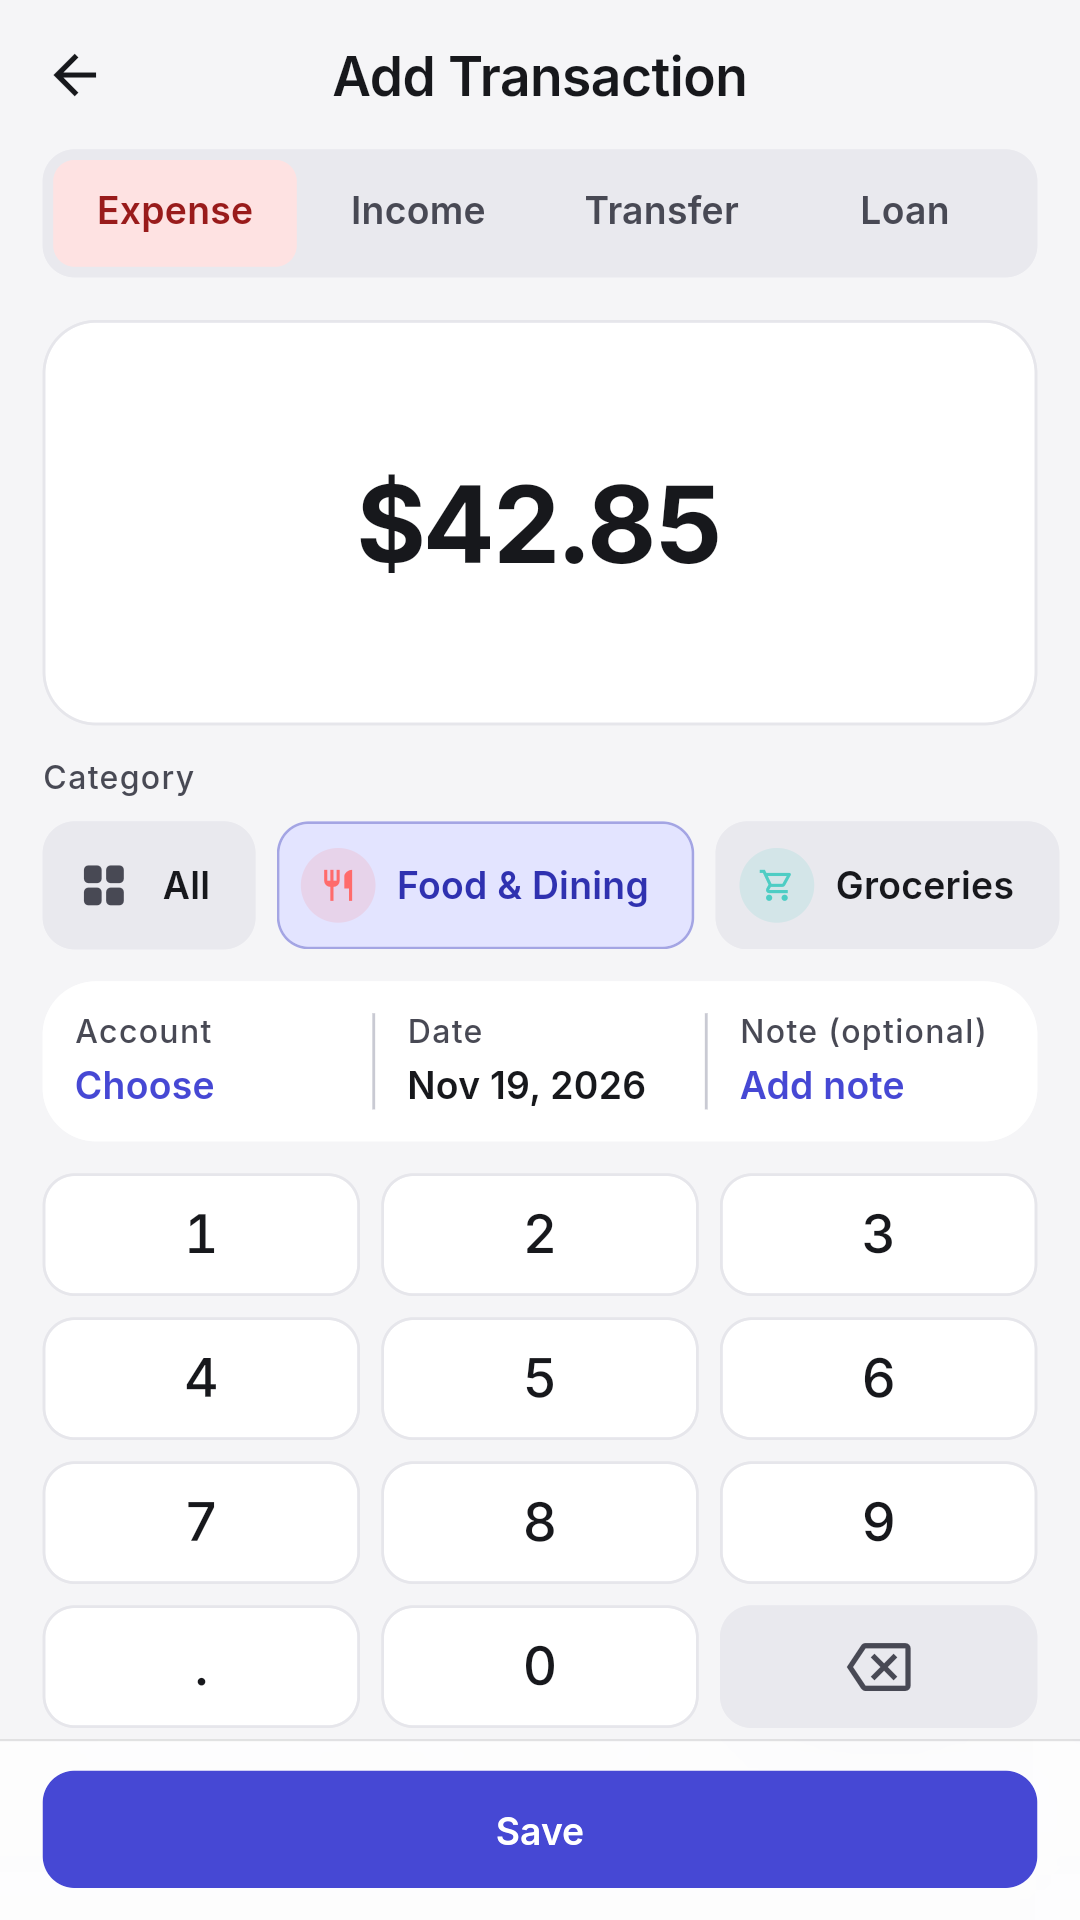
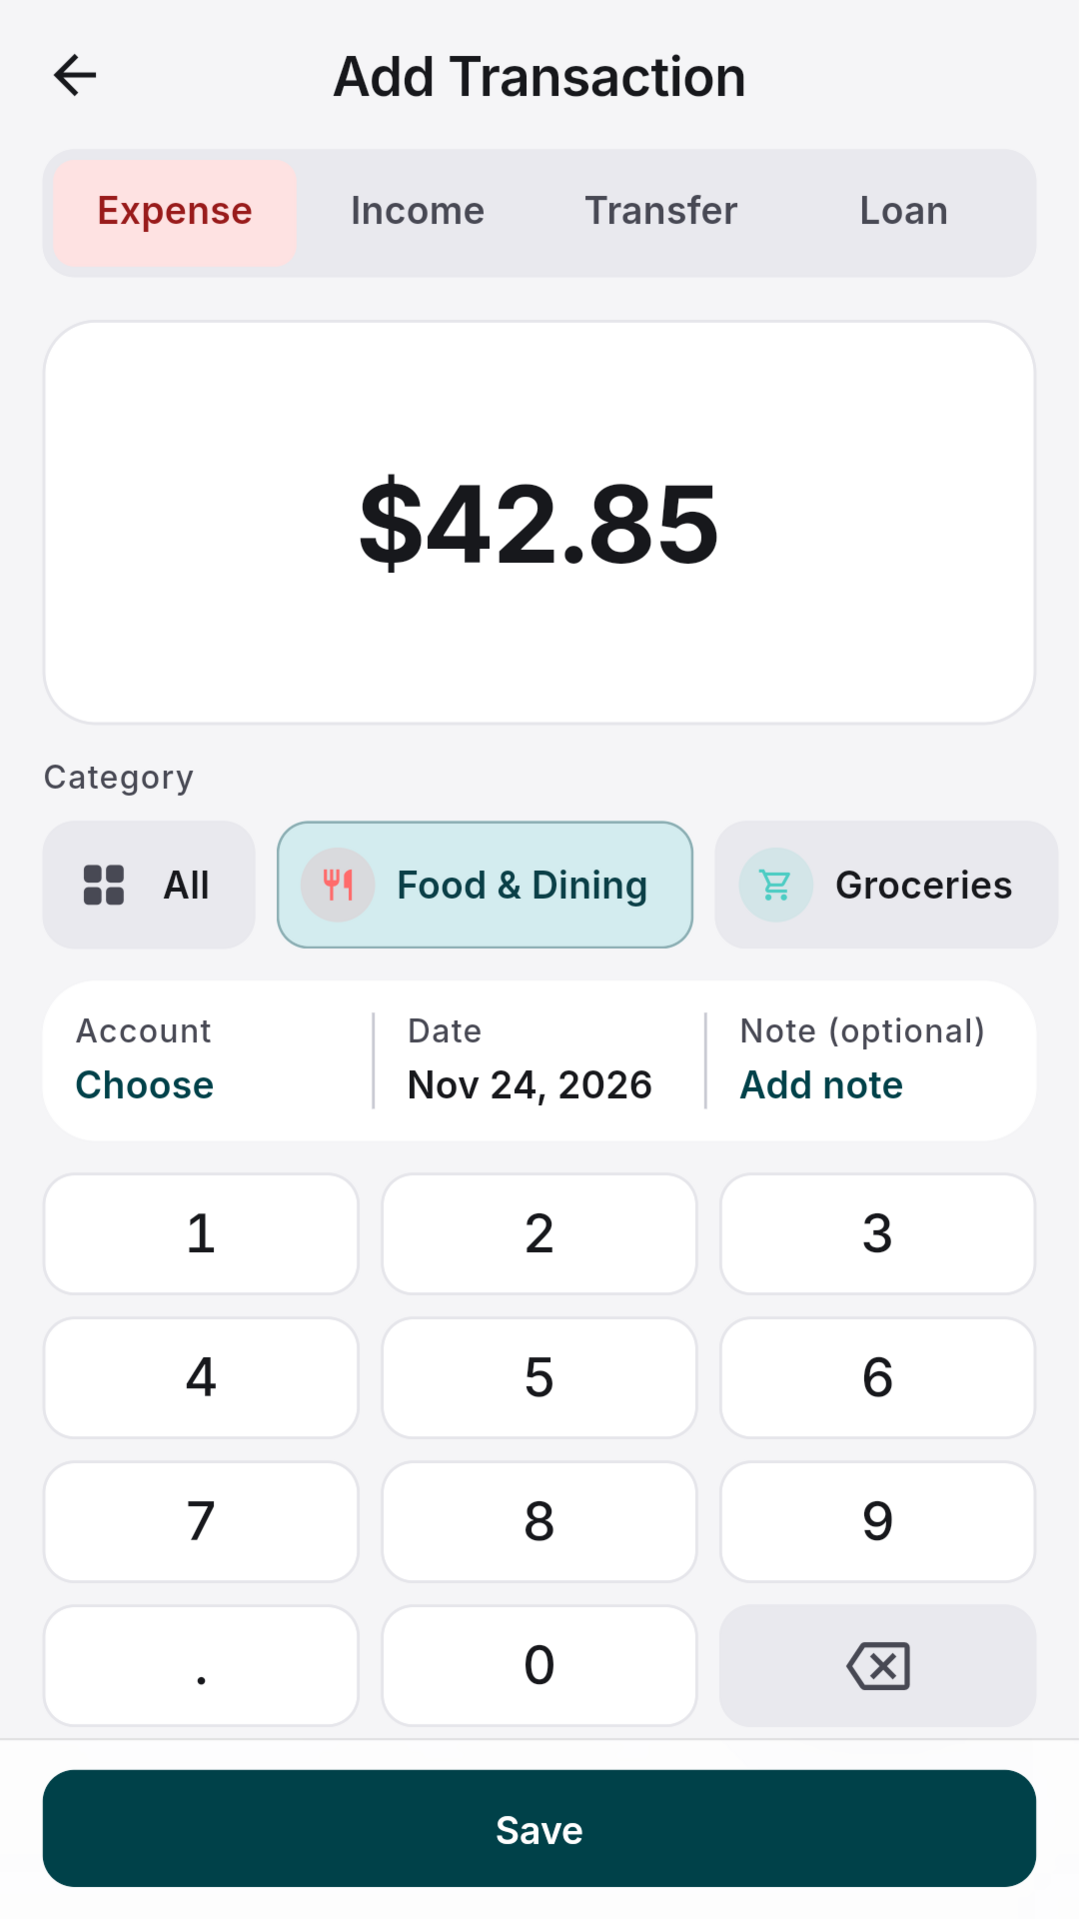
Change the brand colour from indigo to deep teal
The seed colour is now #0E5A64, with matching selection and transfer
tints. The Home summary card is one flat colour: the gradient and its
soft highlights are gone. Teal leads the chart colours and indigo moves
to the last slot. The launcher icon, notification tint, Play Store icon,
feature graphic and screenshots follow. Green, red and amber keep their
meanings.

diff --git a/lib/core/theme/app_palette.dart b/lib/core/theme/app_palette.dart
@@ -33,7 +33,7 @@ class AppPalette extends ThemeExtension<AppPalette> {
     required this.glassBarTint,
     required this.glassSheetTint,
     required this.glassBorder,
-    required this.heroGradient,
+    required this.hero,
     required this.heroGlow,
     required this.heroShade,
     required this.onHero,
@@ -92,24 +92,22 @@ class AppPalette extends ThemeExtension<AppPalette> {
   final Color glassBorder;
 
   /// The Home hero card: the one place the brand color fills a surface.
-  /// A diagonal gradient (top left to bottom right) with a soft highlight.
-  /// [onHero] and [onHeroMuted] meet AA (4.5:1) on every part of it,
-  /// highlight included. The same in light and dark mode.
-  final List<Color> heroGradient;
+  /// One flat color. [onHero] and [onHeroMuted] meet AA (4.5:1) on it,
+  /// with [heroGlow] over it too. The same in light and dark mode.
+  final Color hero;
 
-  /// Decoration on the hero: [heroGlow] lightens (the contrast figures
-  /// allow for one layer of it, so glows must not overlap); [heroShade]
-  /// darkens, which only helps contrast.
+  /// The month chip on the hero: [heroShade] darkens its fill, which only
+  /// helps contrast; [heroGlow] is its hairline.
   final Color heroGlow;
   final Color heroShade;
   final Color onHero;
   final Color onHeroMuted;
   final Color heroShadow;
 
-  static const _heroGradient = [Color(0xFF474AD8), Color(0xFF2E2B9C)];
+  static const _hero = Color(0xFF0D4F58);
   static const _heroGlow = Color(0x14FFFFFF);
   static const _onHero = Color(0xFFFFFFFF);
-  static const _onHeroMuted = Color(0xFFECEDFF);
+  static const _onHeroMuted = Color(0xFFE6F2F3);
   static const _heroShade = Color(0x14000000);
 
   static AppPalette light(ColorScheme scheme) => AppPalette(
@@ -120,8 +118,8 @@ class AppPalette extends ThemeExtension<AppPalette> {
         expenseContainer: const Color(0xFFFEE2E2),
         onExpenseContainer: const Color(0xFF991B1B),
         transfer: scheme.primary,
-        transferContainer: const Color(0xFFE0E7FF),
-        onTransferContainer: const Color(0xFF3730A3),
+        transferContainer: const Color(0xFFD3ECEF),
+        onTransferContainer: const Color(0xFF0A3F47),
         loan: const Color(0xFF6D28D9),
         loanContainer: const Color(0xFFEDE9FE),
         onLoanContainer: const Color(0xFF5B21B6),
@@ -129,14 +127,14 @@ class AppPalette extends ThemeExtension<AppPalette> {
         budgetWarning: const Color(0xFFA14A07),
         budgetDanger: const Color(0xFFB91C1C),
         chart: const [
-          Color(0xFF4F46E5), // indigo
-          Color(0xFF0F766E), // teal
+          Color(0xFF0E6E7A), // brand teal
           Color(0xFFB45309), // amber
           Color(0xFFE11D48), // rose
           Color(0xFF0284C7), // sky
           Color(0xFF7C3AED), // violet
           Color(0xFF4D7C0F), // lime
           Color(0xFFC026D3), // fuchsia
+          Color(0xFF4F46E5), // indigo
         ],
         chartOther: const Color(0xFF64748B),
         raisedSurface: scheme.surfaceContainerLowest,
@@ -145,12 +143,12 @@ class AppPalette extends ThemeExtension<AppPalette> {
         glassBarTint: const Color(0xFFFFFFFF),
         glassSheetTint: const Color(0xFFFFFFFF),
         glassBorder: const Color(0x1F17181C),
-        heroGradient: _heroGradient,
+        hero: _hero,
         heroGlow: _heroGlow,
         heroShade: _heroShade,
         onHero: _onHero,
         onHeroMuted: _onHeroMuted,
-        heroShadow: const Color(0x524648D4),
+        heroShadow: const Color(0x4D0D4F58),
       );
 
   static AppPalette dark(ColorScheme scheme) => AppPalette(
@@ -161,8 +159,8 @@ class AppPalette extends ThemeExtension<AppPalette> {
         expenseContainer: const Color(0xFF7F1D1D),
         onExpenseContainer: const Color(0xFFFECACA),
         transfer: scheme.primary,
-        transferContainer: const Color(0xFF312E81),
-        onTransferContainer: const Color(0xFFC7D2FE),
+        transferContainer: const Color(0xFF103E45),
+        onTransferContainer: const Color(0xFFC6EEF2),
         loan: const Color(0xFFC4B5FD),
         loanContainer: const Color(0xFF4C1D95),
         onLoanContainer: const Color(0xFFDDD6FE),
@@ -170,14 +168,14 @@ class AppPalette extends ThemeExtension<AppPalette> {
         budgetWarning: const Color(0xFFFBBF24),
         budgetDanger: const Color(0xFFF87171),
         chart: const [
-          Color(0xFF818CF8), // indigo
-          Color(0xFF2DD4BF), // teal
+          Color(0xFF5CC8D6), // brand teal
           Color(0xFFFBBF24), // amber
           Color(0xFFFB7185), // rose
           Color(0xFF38BDF8), // sky
           Color(0xFFA78BFA), // violet
           Color(0xFFA3E635), // lime
           Color(0xFFE879F9), // fuchsia
+          Color(0xFF818CF8), // indigo
         ],
         chartOther: const Color(0xFF64748B),
         raisedSurface: scheme.surfaceContainerHigh,
@@ -186,7 +184,7 @@ class AppPalette extends ThemeExtension<AppPalette> {
         glassBarTint: const Color(0xFF17181D),
         glassSheetTint: const Color(0xFF1C1D23),
         glassBorder: const Color(0x1FFFFFFF),
-        heroGradient: _heroGradient,
+        hero: _hero,
         heroGlow: _heroGlow,
         heroShade: _heroShade,
         onHero: _onHero,
@@ -230,7 +228,7 @@ class AppPalette extends ThemeExtension<AppPalette> {
     Color? glassBarTint,
     Color? glassSheetTint,
     Color? glassBorder,
-    List<Color>? heroGradient,
+    Color? hero,
     Color? heroGlow,
     Color? heroShade,
     Color? onHero,
@@ -261,7 +259,7 @@ class AppPalette extends ThemeExtension<AppPalette> {
       glassBarTint: glassBarTint ?? this.glassBarTint,
       glassSheetTint: glassSheetTint ?? this.glassSheetTint,
       glassBorder: glassBorder ?? this.glassBorder,
-      heroGradient: heroGradient ?? this.heroGradient,
+      hero: hero ?? this.hero,
       heroGlow: heroGlow ?? this.heroGlow,
       heroShade: heroShade ?? this.heroShade,
       onHero: onHero ?? this.onHero,
@@ -301,10 +299,7 @@ class AppPalette extends ThemeExtension<AppPalette> {
       glassBarTint: c(glassBarTint, other.glassBarTint),
       glassSheetTint: c(glassSheetTint, other.glassSheetTint),
       glassBorder: c(glassBorder, other.glassBorder),
-      heroGradient: [
-        for (var i = 0; i < heroGradient.length; i++)
-          c(heroGradient[i], other.heroGradient[i % other.heroGradient.length]),
-      ],
+      hero: c(hero, other.hero),
       heroGlow: c(heroGlow, other.heroGlow),
       heroShade: c(heroShade, other.heroShade),
       onHero: c(onHero, other.onHero),

diff --git a/lib/core/theme/app_color_schemes.dart b/lib/core/theme/app_color_schemes.dart
@@ -4,11 +4,11 @@ import 'package:flutter/material.dart';
 ///
 /// Accent roles (primary, secondary, tertiary, error) are generated from
 /// one brand seed with the fidelity variant, which keeps the seed's
-/// saturation: primary is a rich indigo (#4648D4 light, #C0C1FF dark).
+/// saturation: primary is a deep teal.
 ///
 /// Surfaces are set by hand to near-neutral greys. Seeded surfaces carry
 /// the brand hue, which made the page, cards, fields and bars all tints of
-/// the same lavender; with neutral surfaces indigo is left for what it
+/// the same lavender; with neutral surfaces teal is left for what it
 /// should mark: primary actions, selection and the hero.
 ///
 /// Use surfaces by depth:
@@ -20,9 +20,9 @@ import 'package:flutter/material.dart';
 ///   surfaceContainerLowest   deepest well in dark mode; white in light
 ///
 /// secondaryContainer / onSecondaryContainer are the selection colors
-/// (navigation indicator, selected chips and segments): an indigo tint.
+/// (navigation indicator, selected chips and segments): a teal tint.
 abstract final class AppColorSchemes {
-  static const Color seed = Color(0xFF6366F1);
+  static const Color seed = Color(0xFF0E5A64);
 
   static final ColorScheme light = ColorScheme.fromSeed(
     seedColor: seed,
@@ -40,8 +40,8 @@ abstract final class AppColorSchemes {
     onSurfaceVariant: const Color(0xFF484954),
     outline: const Color(0xFF767783),
     outlineVariant: const Color(0xFFC9CAD3),
-    secondaryContainer: const Color(0xFFE3E4FF),
-    onSecondaryContainer: const Color(0xFF2F31B0),
+    secondaryContainer: const Color(0xFFD3ECEF),
+    onSecondaryContainer: const Color(0xFF0A3F47),
     inverseSurface: const Color(0xFF2B2C33),
     onInverseSurface: const Color(0xFFF1F1F5),
   );
@@ -63,8 +63,8 @@ abstract final class AppColorSchemes {
     onSurfaceVariant: const Color(0xFFC4C5CF),
     outline: const Color(0xFF8E8F9A),
     outlineVariant: const Color(0xFF43444D),
-    secondaryContainer: const Color(0xFF2E3070),
-    onSecondaryContainer: const Color(0xFFD9DAFF),
+    secondaryContainer: const Color(0xFF103E45),
+    onSecondaryContainer: const Color(0xFFC6EEF2),
     inverseSurface: const Color(0xFFE5E5EA),
     onInverseSurface: const Color(0xFF2B2C33),
   );

diff --git a/lib/features/home/widgets/monthly_summary_card.dart b/lib/features/home/widgets/monthly_summary_card.dart
@@ -42,28 +42,11 @@ class MonthlySummaryCard extends StatelessWidget {
       ),
       child: ClipRRect(
         borderRadius: Radii.xlAll,
-        child: DecoratedBox(
-          decoration: BoxDecoration(
-            gradient: LinearGradient(
-              begin: Alignment.topLeft,
-              end: Alignment.bottomRight,
-              colors: palette.heroGradient,
-            ),
-          ),
+        child: ColoredBox(
+          // One flat color: no gradient, no highlights.
+          color: palette.hero,
           child: Stack(
             children: [
-              // Decoration only: a soft highlight top right and a shade
-              // bottom left, drawn as gradients (no blur).
-              Positioned(
-                top: -110,
-                right: -90,
-                child: _HeroDisc(size: 320, color: palette.heroGlow),
-              ),
-              Positioned(
-                bottom: -120,
-                left: -90,
-                child: _HeroDisc(size: 300, color: palette.heroShade),
-              ),
               Padding(
                 padding: const EdgeInsets.all(Space.sm),
                 child: Column(
@@ -207,29 +190,5 @@ class MonthlySummaryCard extends StatelessWidget {
     ];
     final now = DateTime.now();
     return '${months[now.month - 1]} ${now.year}';
-  }
-}
-
-class _HeroDisc extends StatelessWidget {
-  const _HeroDisc({required this.size, required this.color});
-
-  final double size;
-  final Color color;
-
-  @override
-  Widget build(BuildContext context) {
-    return SizedBox.square(
-      dimension: size,
-      child: DecoratedBox(
-        decoration: BoxDecoration(
-          shape: BoxShape.circle,
-          // Strongest in the middle, fading out to nothing at the rim.
-          gradient: RadialGradient(
-            colors: [color, color, color.withValues(alpha: 0)],
-            stops: const [0, 0.45, 1],
-          ),
-        ),
-      ),
-    );
   }
 }

diff --git a/test/core/theme/contrast_test.dart b/test/core/theme/contrast_test.dart
@@ -44,7 +44,7 @@ void main() {
       scheme.onSurface,
       scheme.primary,
       scheme.error,
-      ...palette.heroGradient,
+      palette.hero,
       ...palette.chart,
       palette.chartOther,
       palette.income,
@@ -149,13 +149,12 @@ void main() {
         );
       });
 
-      test('hero text meets AA on the gradient, highlight included', () {
-        for (final stop in palette.heroGradient) {
-          final lit = Color.alphaBlend(palette.heroGlow, stop);
-          for (final on in [palette.onHero, palette.onHeroMuted]) {
-            expect(contrast(on, stop), greaterThanOrEqualTo(_textAA));
-            expect(contrast(on, lit), greaterThanOrEqualTo(_textAA));
-          }
+      test('hero text meets AA on the hero color, chip hairline included',
+          () {
+        final lit = Color.alphaBlend(palette.heroGlow, palette.hero);
+        for (final on in [palette.onHero, palette.onHeroMuted]) {
+          expect(contrast(on, palette.hero), greaterThanOrEqualTo(_textAA));
+          expect(contrast(on, lit), greaterThanOrEqualTo(_textAA));
         }
       });
 

diff --git a/lib/features/home/widgets/spending_trend_chart.dart b/lib/features/home/widgets/spending_trend_chart.dart
@@ -166,7 +166,7 @@ class SpendingTrendChart extends StatelessWidget {
                                   toY: amount,
                                   color: isToday
                                       ? scheme.primary
-                                      : scheme.primary.withValues(alpha: 0.32),
+                                      : scheme.primary.withValues(alpha: 0.45),
                                   width: 22,
                                   borderRadius: const BorderRadius.vertical(
                                     top: Radius.circular(Radii.sm),

diff --git a/android/app/src/main/kotlin/com/spendsheet/spendsheet/WalletPaymentNotifier.kt b/android/app/src/main/kotlin/com/spendsheet/spendsheet/WalletPaymentNotifier.kt
@@ -18,7 +18,7 @@ object WalletPaymentNotifier {
 
     private const val CHANNEL_ID = "wallet_payments"
     private const val TAG = "wallet_payment"
-    private const val SEED_COLOR = 0xFF6366F1.toInt() // AppColorSchemes.seed
+    private const val SEED_COLOR = 0xFF0E5A64.toInt() // AppColorSchemes.seed
 
     fun show(context: Context, key: String, payment: WalletPaymentParser.Payment) {
         val manager = NotificationManagerCompat.from(context)

diff --git a/docs/DESIGN.md b/docs/DESIGN.md
@@ -6,7 +6,7 @@ live in `lib/core/theme/`; shared components live in `lib/shared/widgets/`.
 ## Principles
 
 - **Calm by default, color for meaning.** Surfaces are near-neutral greys.
-  Indigo marks primary actions, selection and the Home hero. Green and red
+  Teal marks primary actions, selection and the Home hero. Green and red
   mean money in and money out; amber means a budget is close to its limit.
   Nothing else gets those colors.
 - **Everything comes from the theme.** Widgets never use raw colors. Read
@@ -22,9 +22,9 @@ live in `lib/core/theme/`; shared components live in `lib/shared/widgets/`.
 ### Scheme
 
 `AppColorSchemes` (`app_color_schemes.dart`) builds both schemes. The accent
-roles come from `ColorScheme.fromSeed(seedColor: #6366F1, dynamicSchemeVariant:
-fidelity)`, which keeps the brand indigo saturated: primary is `#4648D4` in
-light mode and `#C0C1FF` in dark mode. To change the brand color, change the
+roles come from `ColorScheme.fromSeed(seedColor: #0E5A64, dynamicSchemeVariant:
+fidelity)`, which keeps the brand teal saturated: primary is `#004149` in
+light mode and `#91D1DC` in dark mode. To change the brand color, change the
 seed.
 
 The surface roles are set by hand to near-neutral greys. Seeded surfaces
@@ -47,8 +47,8 @@ Text on surfaces uses `onSurface`. Secondary text (dates, captions, hints)
 uses `onSurfaceVariant`.
 
 Selection (the navigation indicator, selected chips and segments) uses
-`secondaryContainer` with `onSecondaryContainer`: an indigo tint, `#E3E4FF` /
-`#2F31B0` in light mode and `#2E3070` / `#D9DAFF` in dark mode.
+`secondaryContainer` with `onSecondaryContainer`: a teal tint, `#D3ECEF` /
+`#0A3F47` in light mode and `#103E45` / `#C6EEF2` in dark mode.
 
 ### App palette
 
@@ -64,7 +64,7 @@ has no role for. Read it with `context.palette`.
 | `budgetSafe` / `Warning` / `Danger` | `#047552` / `#A14A07` / `#B91C1C` | `#34D399` / `#FBBF24` / `#F87171` | Budget under 80%, from 80%, at 100% or more. Use `palette.budgetColor(used)`. |
 | `*Container` / `on*Container` | soft tints | deep tints | Backgrounds of icon circles and tabs, with text on them |
 | `cardBorder` | `#E6E6EB` | `#24252B` | Hairline around cards and keypad keys |
-| `heroGradient`, `heroGlow`, `heroShade` | `#474AD8` → `#2E2B9C` | same | The Home hero card and its decoration |
+| `hero`, `heroGlow`, `heroShade` | `#0D4F58` | same | The Home hero card (one flat color) and its month chip |
 | `onHero`, `onHeroMuted` | `#FFFFFF`, `#ECEDFF` | same | Text on the hero |
 | `glassBarTint`, `glassSheetTint`, `glassBorder` | white | `#17181D`, `#1C1D23` | Glass surfaces; use them through `GlassSurface` |
 | `chart[0..7]`, `chartOther` | 8 hues + slate | lighter set | Chart series in order of size. Use `palette.chartColor(i)`. |
@@ -75,8 +75,8 @@ color meets 3:1 against cards. `test/core/theme/contrast_test.dart` checks
 all of this against the real theme, so add new colors to it.
 
 **The hero** is the one place the brand color fills a surface. Its text is
-`onHero` or `onHeroMuted`, which keep at least 4.76:1 on the lightest part
-of the gradient with the highlight on top. Green and red would not be
+`onHero` or `onHeroMuted`, which meet 4.5:1 on it. The card is one flat
+color: no gradient and no highlights. Green and red would not be
 readable there, so income and expense sit on a solid panel inside the card,
 and "Over budget" is a solid red-tinted badge.
 
@@ -243,7 +243,7 @@ also draw the sheet's drag handle; don't draw another.
   when the app bar has a `bottom`. A `RefreshIndicator` takes
   `edgeOffset: ScreenInsets.topOf(context)`. A screen that does not scroll
   (Add Transaction) keeps a normal body under the same app bar.
-- **Hero card (Home only):** `palette.heroGradient`, radius `xl`, text in
+- **Hero card (Home only):** `palette.hero` (flat), radius `xl`, text in
   `onHero` / `onHeroMuted`, signals on a solid `raisedSurface` panel.
 - **Summary card (Loans, Accounts):** `raisedSurface`, radius `xl`,
   `cardShadow`. A neutral headline amount, then `SignalStat`s.
